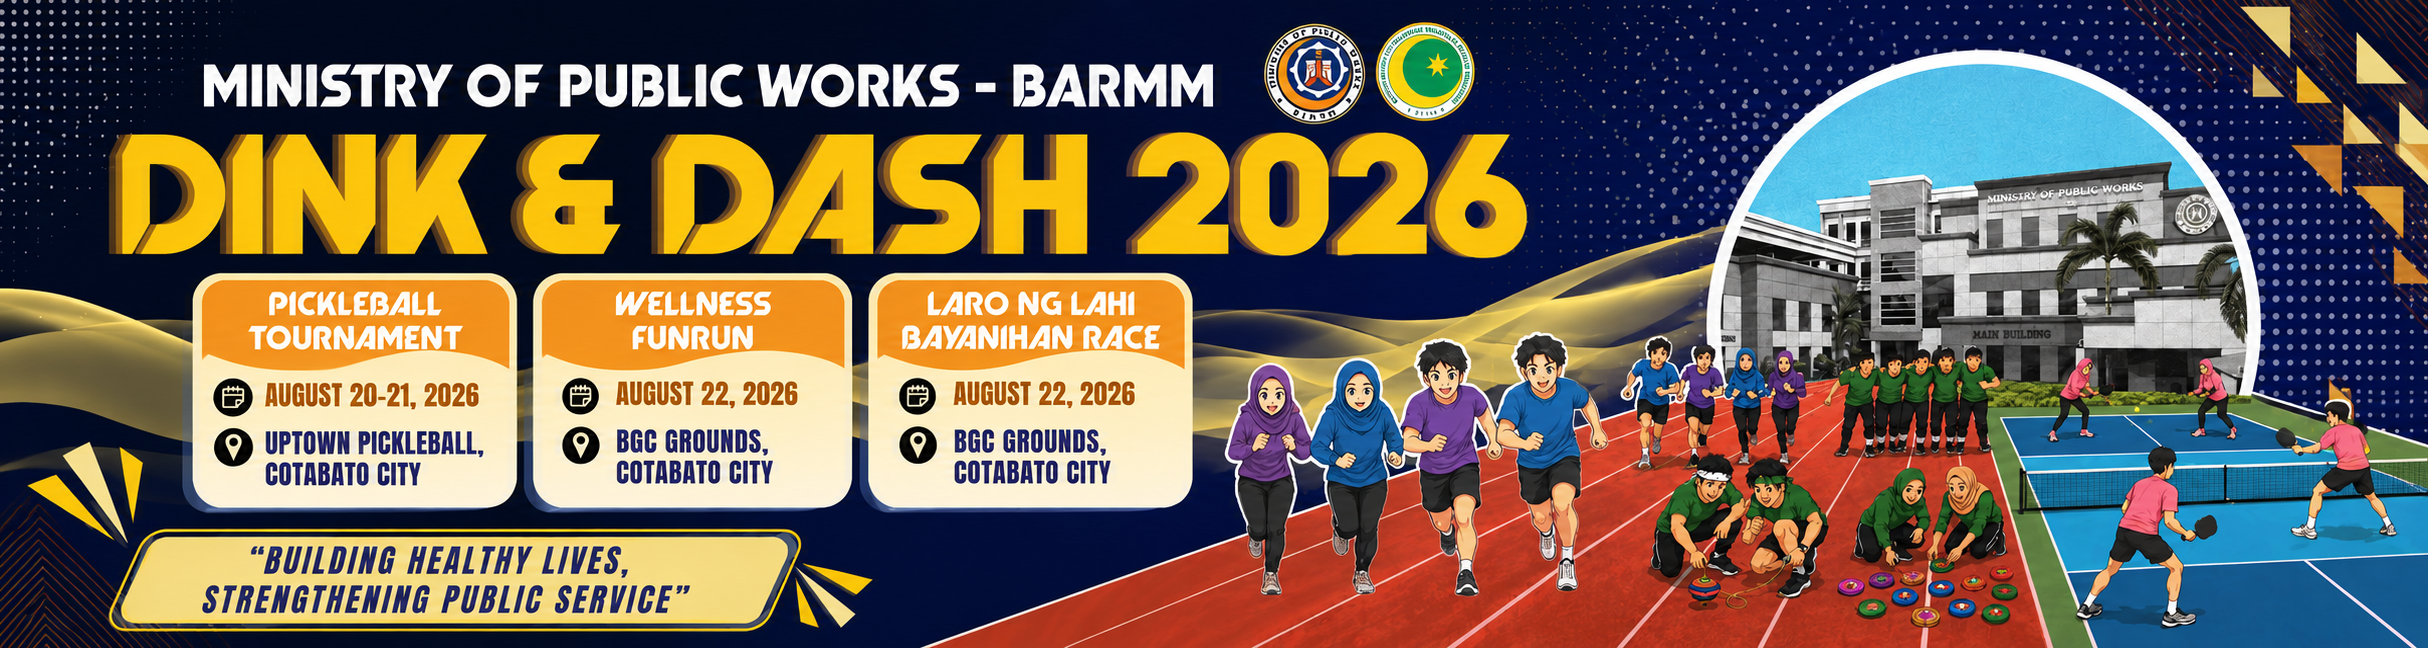
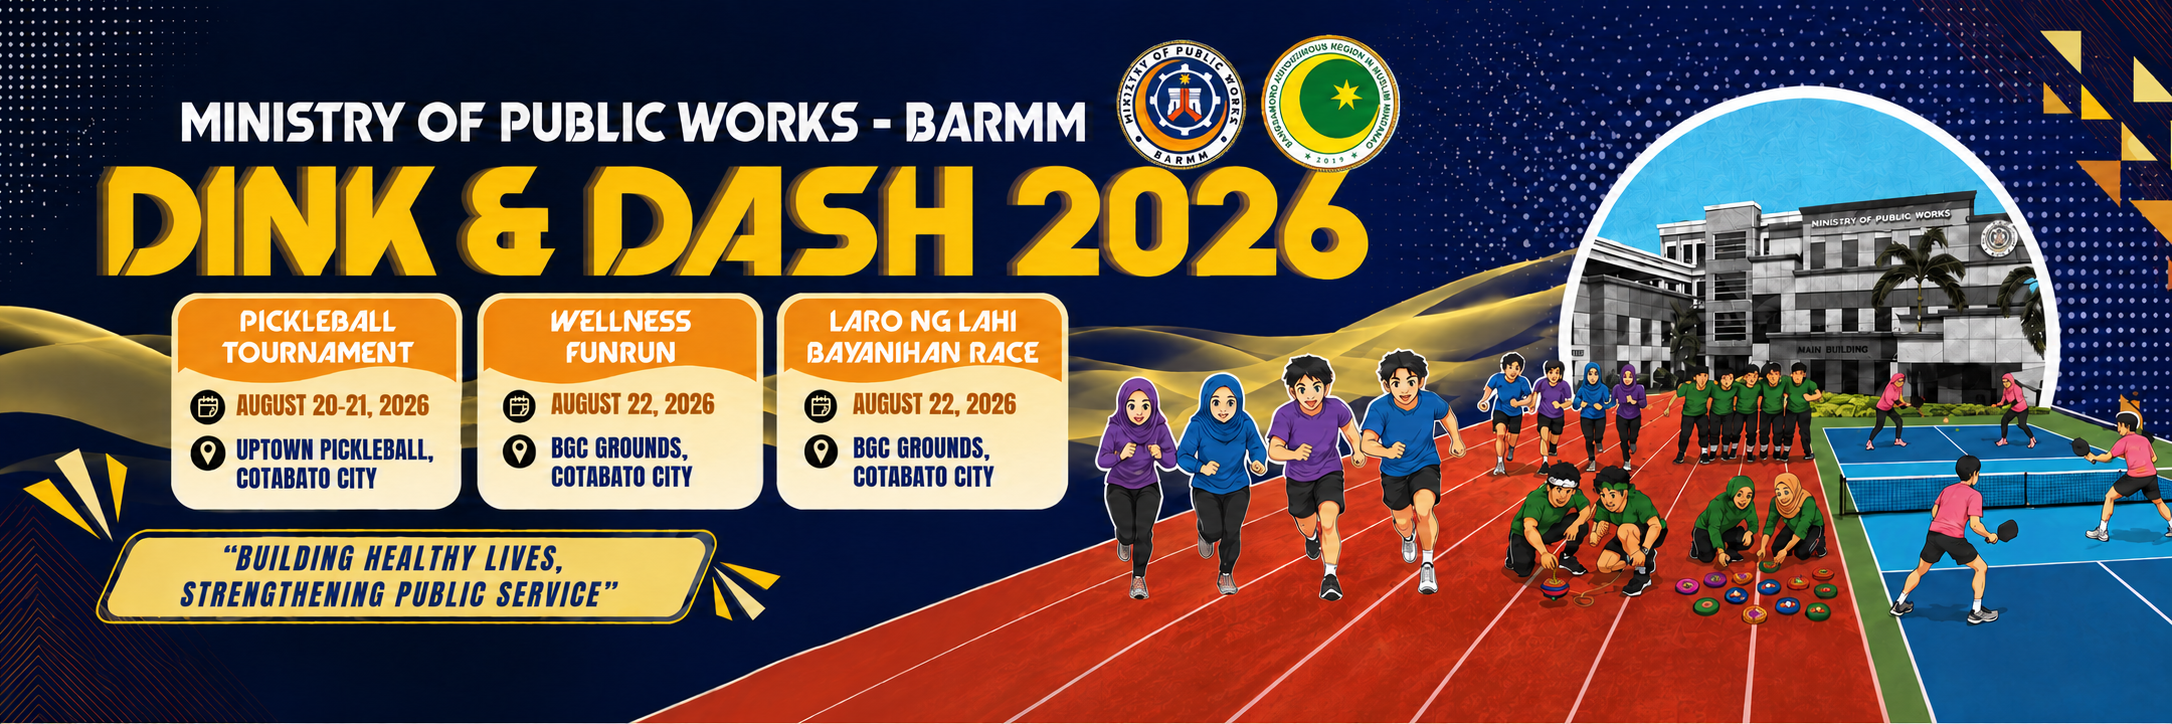
idk what happened

diff --git a/tests/domain.test.ts b/tests/domain.test.ts
@@ -55,7 +55,7 @@ test("team-manager lineups stay closed when no unfinished matchup is in the cour
   ]), null);
 });
 
-test("standings apply pair-match wins, NPD, head-to-head, and total points", () => {
+test("standings apply pair-match wins, NPD, total points, and head-to-head", () => {
   const teams = [team("A", "Alpha", "Group A"), team("B", "Bravo", "Group A"), team("C", "Charlie", "Group A")];
   const rows = computeStandings(teams, [
     matchup("1", "A", "B", 4, 3, [[11, 7], [11, 7], [11, 7], [11, 7], [7, 11], [7, 11], [7, 11]]),
@@ -81,13 +81,15 @@ test("official group tiebreak criteria are compared in the required order", () =
   assert.ok(compareStandingRows({ ...base, gameWins: 11, points: -20, headToHeadPoints: 0, totalPointsScored: 100 } as never, { ...base, gameWins: 10, points: 50, headToHeadPoints: 3, totalPointsScored: 300 } as never) < 0);
   // B. NPD is next once pair-match wins are tied.
   assert.ok(compareStandingRows({ ...base, points: 6, headToHeadPoints: 0, totalPointsScored: 100 } as never, { ...base, points: 5, headToHeadPoints: 3, totalPointsScored: 300 } as never) < 0);
-  // C. Head-to-head precedes total points scored.
-  assert.ok(compareStandingRows({ ...base, headToHeadPoints: 2, totalPointsScored: 100 } as never, { ...base, headToHeadPoints: 1, totalPointsScored: 300 } as never) < 0);
-  // D. Total points scored is the final automatic criterion.
-  assert.ok(compareStandingRows({ ...base, totalPointsScored: 211 } as never, { ...base, totalPointsScored: 210 } as never) < 0);
+  // C. Total points scored precedes head-to-head.
+  assert.ok(compareStandingRows({ ...base, headToHeadPoints: 0, totalPointsScored: 211 } as never, { ...base, headToHeadPoints: 3, totalPointsScored: 210 } as never) < 0);
+  // D. Head-to-head is the final automatic criterion.
+  assert.ok(compareStandingRows({ ...base, headToHeadPoints: 2 } as never, { ...base, headToHeadPoints: 1 } as never) < 0);
+  // A full tie across A/B/C/D remains equal for organizer resolution.
+  assert.equal(compareStandingRows(base, { ...base }), 0);
 });
 
-test("head-to-head is applied only within teams still tied after pair wins and NPD", () => {
+test("head-to-head is applied only within teams still tied after pair wins, NPD, and total points", () => {
   const teams = [team("A", "Alpha", "Group A"), team("B", "Bravo", "Group A"), team("C", "Charlie", "Group A"), team("D", "Delta", "Group A")];
   const rows = computeStandings(teams, [
     matchup("ab", "A", "B", 4, 3),
@@ -100,6 +102,15 @@ test("head-to-head is applied only within teams still tied after pair wins and N
   assert.deepEqual(rows.map((row) => row.team.id), ["C", "A", "D", "B"]);
   assert.deepEqual(rows.map((row) => row.headToHeadPoints), [1, 0, 1, 0]);
   assert.ok(rows.every((row) => row.rankStatus === "RESOLVED"));
+});
+
+test("total points resolve a tie before head-to-head is evaluated", () => {
+  const teams = [team("A", "Alpha", "Group A"), team("B", "Bravo", "Group A")];
+  const rows = computeStandings(teams, [matchup("ab", "A", "B", 1, 1, [[11, 5], [5, 12]])]);
+
+  assert.deepEqual(rows.map((row) => row.team.id), ["B", "A"]);
+  assert.deepEqual(rows.map((row) => row.totalPointsScored), [17, 16]);
+  assert.deepEqual(rows.map((row) => row.headToHeadPoints), [0, 0]);
 });
 
 test("wildcard comes from the best second-place row", () => {

diff --git a/lib/tournament/standings.ts b/lib/tournament/standings.ts
@@ -23,7 +23,7 @@ export type StandingRow = {
   points: number;
   totalPointsScored: number;
   totalPointsConceded: number;
-  /** Head-to-head wins among teams still tied after pair-match wins and net point differential. */
+  /** Head-to-head wins among teams still tied after every preceding standings metric. */
   headToHeadPoints: number;
   rank: number;
   rankLabel: string;
@@ -48,8 +48,8 @@ export function areGroupMatchupsComplete(matchups: Array<Pick<Matchup, "status">
  * Group ranking order uses the official pair-match tiebreak sequence:
  *    A. total pair-match wins
  *    B. net point differential (points scored - points conceded)
- *    C. head-to-head result among teams still tied after A/B
- *    D. total points scored
+ *    C. total points scored
+ *    D. head-to-head result among teams still tied after A/B/C
  *
  * The organizer can still resolve a mathematically exact tie after all four criteria.
  */
@@ -57,8 +57,8 @@ export function compareStandingRows(a: StandingRow, b: StandingRow) {
   return (
     b.gameWins - a.gameWins ||
     b.points - a.points ||
-    b.headToHeadPoints - a.headToHeadPoints ||
-    b.totalPointsScored - a.totalPointsScored
+    b.totalPointsScored - a.totalPointsScored ||
+    b.headToHeadPoints - a.headToHeadPoints
   );
 }
 
@@ -80,7 +80,7 @@ function crossGroupTieKey(row: StandingRow) {
 }
 
 function preHeadToHeadTieKey(row: StandingRow) {
-  return `${row.gameWins}|${row.points}`;
+  return `${row.gameWins}|${row.points}|${row.totalPointsScored}`;
 }
 
 function stableTeamOrder(a: StandingRow, b: StandingRow) {
@@ -200,8 +200,8 @@ export function computeStandings(teams: StandingTeam[], matchups: StandingMatchu
 
   for (const row of rows) row.differential = row.gameWins - row.gameLosses;
 
-  // Head-to-head is criterion C, so evaluate it only among teams still tied after
-  // pair-match wins (A) and net point differential (B).
+  // Head-to-head is the final automatic criterion, so evaluate it only among teams
+  // still tied after pair-match wins, net point differential, and total points.
   const tiedBeforeHeadToHead = new Map<string, StandingRow[]>();
   for (const row of rows) {
     const key = preHeadToHeadTieKey(row);

diff --git a/components/StandingsTable.tsx b/components/StandingsTable.tsx
@@ -68,8 +68,8 @@ export default function StandingsTable({ rows, qualificationByTeam }: { rows: St
       })}</tbody>
     </table>
     <div className="border-t border-line bg-gray-50 px-3 py-2 text-[9px] font-bold leading-relaxed text-gray-500 sm:text-[10px]">
-      <span className="sm:hidden">TB: pair-match wins → NPD → H2H → total points.</span>
-      <span className="hidden sm:inline">Tiebreak order: total pair-match wins, Net Point Differential, head-to-head result, then total points scored.</span>
+      <span className="sm:hidden">TB: pair-match wins → NPD → total points → H2H.</span>
+      <span className="hidden sm:inline">Tiebreak order: total pair-match wins, Net Point Differential, total points scored, then head-to-head result.</span>
     </div>
   </div>;
 }

diff --git a/PROJECT_STATE.md b/PROJECT_STATE.md
@@ -176,7 +176,7 @@ Primary operational requirement: organizers may change attendance, pairs, teams,
 - Team Leader portal now surfaces top-level action counts and prioritizes lineup work, ongoing matchups, ready matchups, and completed history. Matchup cards distinguish “Needs your lineup,” “Waiting for opponent,” and “Ready to play.”
 - Match lineup editing now includes a roster-at-a-glance board. Every player is visibly marked as selected for a specific match, played/protected, unpaired, or unavailable; each match row separately indicates Pair ready / Pair needed / Protected. Unsaved and incomplete lineup states are explicit near the save action.
 - Admin control room top metrics are tournament-operation-first (ongoing, live pair matches, pending lineups, ready, scheduled, completed). The scoring table is urgency-sorted and individual match chips expose live/done/pending/interrupted state without opening the match.
-- Group standings now use `Matches`, `W`, `L`, `NPD`, and `TP`. Matches/W/L are decided pair-match totals, `NPD` is total points scored minus total points conceded across decided pair matches, and `TP` is accumulated points scored. Ranking uses Total Pair Match Wins → NPD → head-to-head → Total Points Scored.
+- Group standings now use `Matches`, `W`, `L`, `NPD`, and `TP`. Matches/W/L are decided pair-match totals, `NPD` is total points scored minus total points conceded across decided pair matches, and `TP` is accumulated points scored. Ranking uses Total Pair Match Wins → NPD → Total Points Scored → head-to-head.
 - Live/provisional standings metrics do not unlock tie/tiebreak actions: actionable ties still require every matchup in that group table to be terminal.
 
 
@@ -186,7 +186,7 @@ Primary operational requirement: organizers may change attendance, pairs, teams,
 ## Match terminology, official tiebreaks, scorecard + mobile pass — 2026-08-12
 
 - Standardized user-facing tournament language on **Match / Matches**. Internal Prisma `Game` records, API identifiers, and the existing `/games` route remain unchanged intentionally to avoid an unnecessary schema/URL migration.
-- Group ranking uses the organizer-approved order directly: **A. Total Pair Match Wins, B. Net Point Differential, C. Head-to-head among teams still tied after A/B, D. Total Points Scored**. Exact ties still require organizer resolution only after the group stage is terminal.
+- Group ranking uses the organizer-approved order directly: **A. Total Pair Match Wins, B. Net Point Differential, C. Total Points Scored, D. Head-to-head among teams still tied after A/B/C**. Exact ties still require organizer resolution only after the group stage is terminal.
 - Public group standings display **Matches / W / L / NPD / TP**, all based on decided pair matches.
 - Official paper scorecards now print as **two landscape half-sheet cards stacked on one A4 portrait sheet**, separated by a crosswise cut guide. The standalone Group field is removed; labels derive group context from the configured round/matchup (for example, `Group A Match 3`).
 - Mobile navigation is now action-first: the public header keeps a compact sticky identity row plus a horizontally scrollable active-page nav strip. Admin navigation accounts for the taller mobile header.

diff --git a/docs/KNOCKOUT_RULES_20260811.md b/docs/KNOCKOUT_RULES_20260811.md
@@ -25,8 +25,8 @@ Teams are ranked using the organizer's required sequence:
 
 A. **Total Pair Match Wins**
 B. **Net Point Differential** — Total Points Scored − Total Points Conceded across the pair matches
-C. **Head-to-head result** between the teams still tied after A and B
-D. **Total Points Scored**
+C. **Total Points Scored**
+D. **Head-to-head result** between the teams still tied after A, B, and C
 
 If teams remain mathematically tied after all four criteria and the group stage is complete, the existing organizer tiebreak override remains available. Cross-group wildcard comparison cannot use head-to-head, so it uses pair-match wins, NPD, then total points scored.
 
